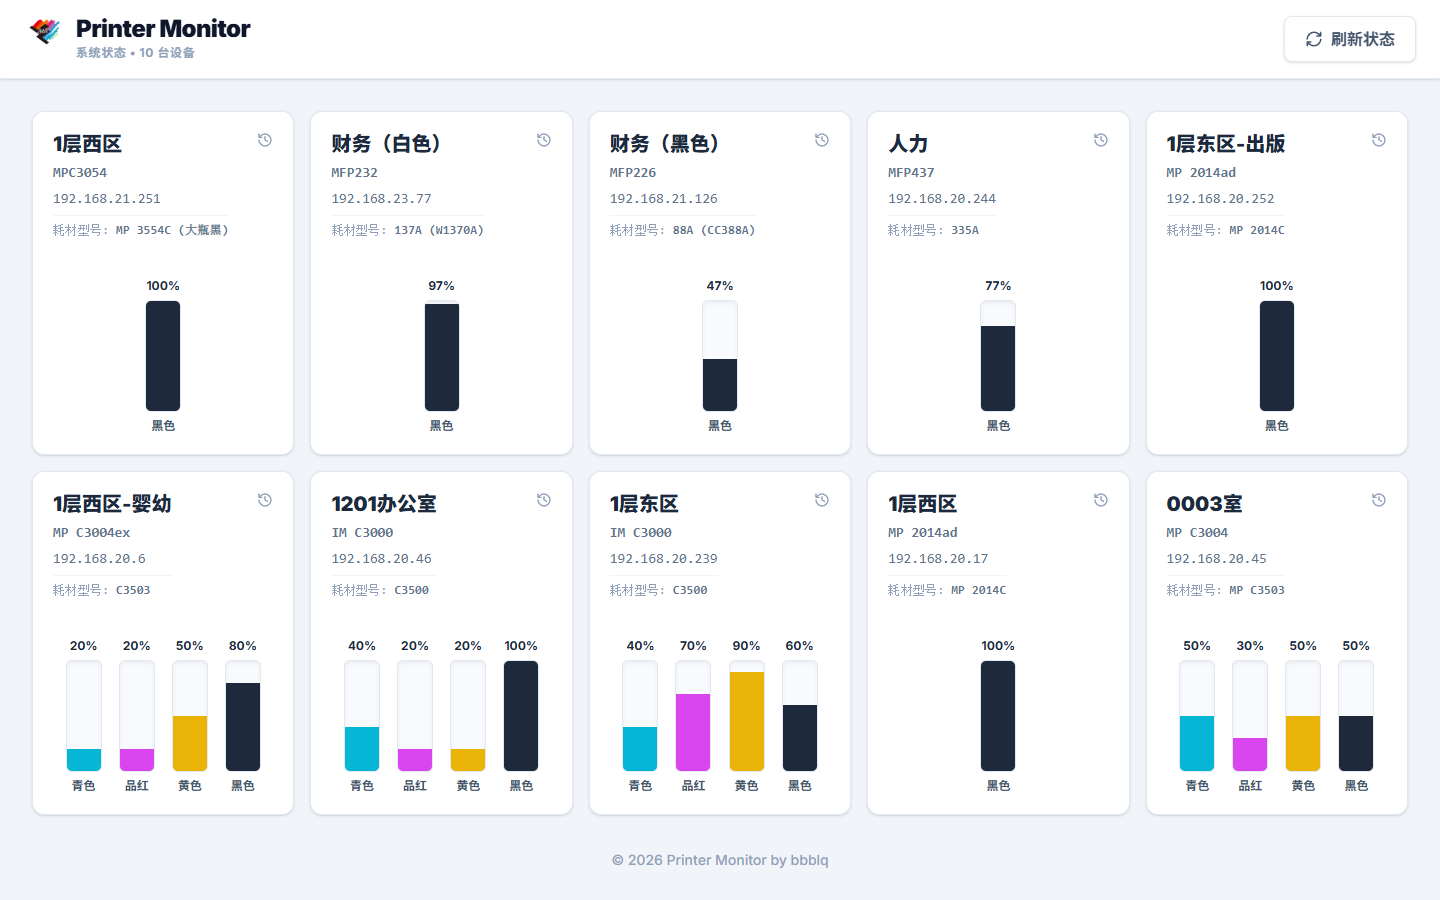
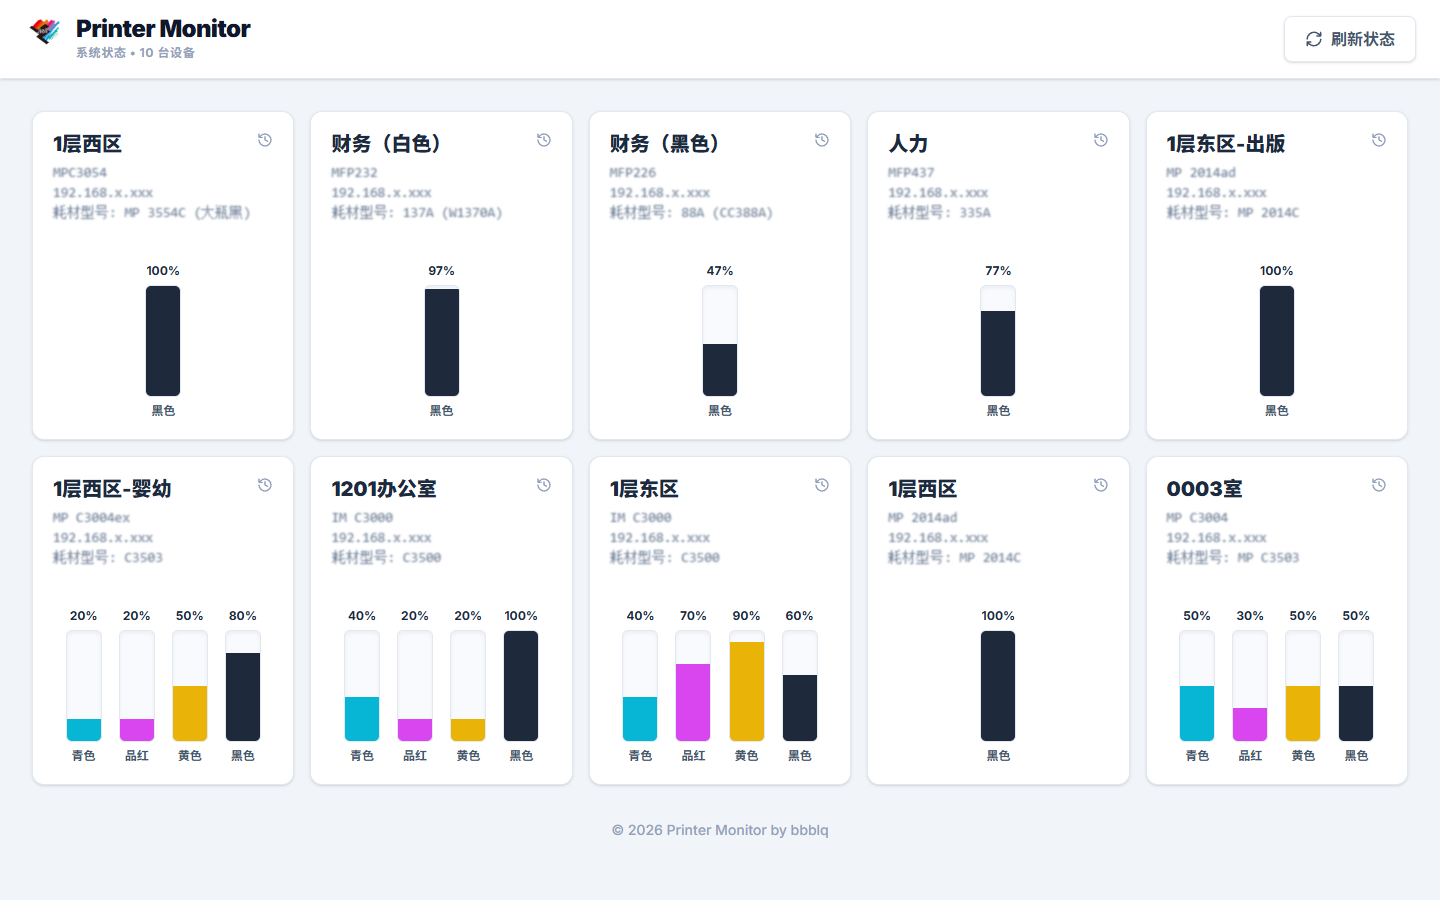
docs: Obscure IPs in screenshots for privacy

diff --git a/scripts/take-screenshots.js b/scripts/take-screenshots.js
@@ -16,24 +16,42 @@ const path = require('path');
         fs.mkdirSync(screenshotDir);
     }
 
+    const maskIPs = async (page) => {
+        await page.evaluate(() => {
+            const replaceIP = (text) => text.replace(/\d{1,3}\.\d{1,3}\.\d{1,3}\.\d{1,3}/g, '192.168.x.xxx');
+
+            // Dashboard Cards
+            document.querySelectorAll('.font-mono').forEach(el => {
+                if (/\d{1,3}\.\d{1,3}\.\d{1,3}\.\d{1,3}/.test(el.innerText)) {
+                    el.innerText = replaceIP(el.innerText);
+                    el.style.filter = 'blur(1px)'; // Add subtle blur for effect
+                }
+            });
+
+            // Admin Table
+            document.querySelectorAll('td.font-mono').forEach(el => {
+                if (/\d{1,3}\.\d{1,3}\.\d{1,3}\.\d{1,3}/.test(el.innerText)) {
+                    el.innerText = replaceIP(el.innerText);
+                    el.style.filter = 'blur(1px)';
+                }
+            });
+        });
+    };
+
     try {
         console.log('Taking Dashboard screenshot...');
         await page.goto('http://localhost:3000', { waitUntil: 'networkidle0' });
-        // Wait for some data to load or skeleton to disappear if possible, though networkidle0 should handle it.
         await new Promise(r => setTimeout(r, 2000));
+        await maskIPs(page);
         await page.screenshot({ path: path.join(screenshotDir, 'dashboard.png') });
 
         console.log('Taking Admin screenshot...');
-        // Set cookie for simple auth (based on observed code)
-        // Note: The actual auth implementation might check value, but usually just presence or specific value "true" or token. 
-        // Let's assume standard 'admin_auth' cookie based on previous file views.
-        // Actually, looking at previous turn, login sets a cookie. I'll check if I need to POST to login first.
-        // To be safe, I'll just try to login via UI interaction.
         await page.goto('http://localhost:3000/admin/login', { waitUntil: 'networkidle0' });
         await page.type('input[type="password"]', 'admin');
         await page.click('button[type="submit"]');
         await page.waitForNavigation({ waitUntil: 'networkidle0' });
         await new Promise(r => setTimeout(r, 2000));
+        await maskIPs(page);
         await page.screenshot({ path: path.join(screenshotDir, 'admin.png') });
 
         console.log('Taking History screenshot...');
